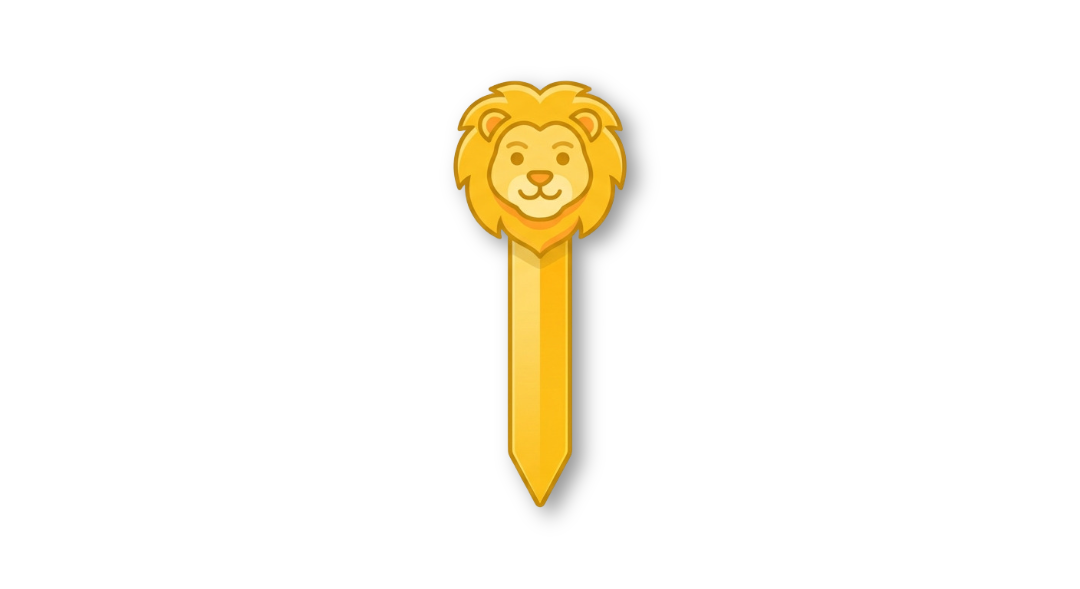
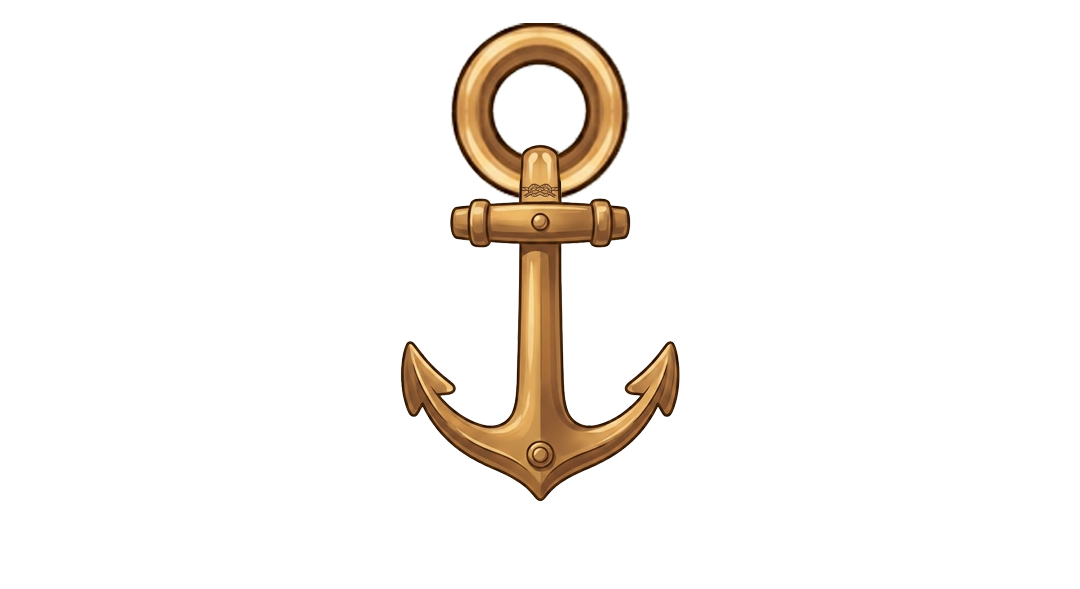
Refinacion de animacion de resultado, fix a modo hype, logica isDupla, retoque a asset de ancla puntero

Changed region(s): [[0.3667, 0.0306, 0.6417, 0.8862]]

diff --git a/src/app/components/results-animation/reveal-overlay.component.scss b/src/app/components/results-animation/reveal-overlay.component.scss
@@ -56,7 +56,7 @@ $ease-out: cubic-bezier(0.55, 0, 0.45, 1); // colapso suave
   inset: 0;
 }
 
-/* ---------- Texto delineado ---------- */
+/* ---------- Texto delineado (modo normal / no-hype) ---------- */
 .reveal-text {
   position: absolute;
   left: 50%;
@@ -68,27 +68,27 @@ $ease-out: cubic-bezier(0.55, 0, 0.45, 1); // colapso suave
   font-size: clamp(64px, 17vw, 230px);
   line-height: 0.9;
   letter-spacing: 0.02em;
-  color: #FFD700;
+  color: #ffffff;
   paint-order: stroke fill;
-  -webkit-text-stroke: clamp(6px, 1.2vw, 12px) #1A0500;
-  text-stroke: clamp(6px, 1.2vw, 12px) #1A0500;
-  filter: drop-shadow(0 0 12px #FF990044);
+  -webkit-text-stroke: clamp(4px, 0.8vw, 8px) #001a3a;
+  text-stroke: clamp(4px, 0.8vw, 8px) #001a3a;
+  filter: drop-shadow(0 0 12px #2299FF88);
 
   // estado inicial: fuera por la izquierda
   transform: translate(-50%, -50%) translateX(-82vw) translateY(var(--reveal-text-y)) scale(1);
   opacity: 0;
   transition:
-    transform var(--reveal-enter) $ease-in var(--reveal-text-delay),
+    transform var(--reveal-enter) cubic-bezier(0.25, 1, 0.5, 1) var(--reveal-text-delay),
     opacity calc(var(--reveal-enter) * 0.7) ease var(--reveal-text-delay);
 
   &.enter {
     transform: translate(-50%, -50%) translateX(0) translateY(var(--reveal-text-y)) scale(1);
     opacity: 1;
-    animation: neon-flicker 4s cubic-bezier(0.37, 0, 0.63, 1) infinite;
+    animation: neon-flicker-blue 4s cubic-bezier(0.37, 0, 0.63, 1) infinite;
     animation-delay: var(--reveal-enter);
   }
   &.collapse {
-    transform: translate(-50%, -50%) translateX(0) translateY(0) scale(var(--reveal-text-shrink));
+    transform: translate(-50%, -50%) translateX(var(--reveal-collapse-x, 0px)) translateY(var(--reveal-collapse-y, 0px)) scale(var(--reveal-text-shrink));
     opacity: 0.9;
     transition:
       transform var(--reveal-shrink) $ease-out,
@@ -96,7 +96,7 @@ $ease-out: cubic-bezier(0.55, 0, 0.45, 1); // colapso suave
   }
   &.gone {
     opacity: 0;
-    transform: translate(-50%, -50%) translateX(0) translateY(0) scale(var(--reveal-text-shrink));
+    transform: translate(-50%, -50%) translateX(var(--reveal-collapse-x, 0px)) translateY(var(--reveal-collapse-y, 0px)) scale(var(--reveal-text-shrink));
     transition:
       transform var(--reveal-shrink) $ease-out,
       opacity var(--reveal-clear) $ease-out;
@@ -177,10 +177,10 @@ $ease-out: cubic-bezier(0.55, 0, 0.45, 1); // colapso suave
     opacity: 1;
   }
 
-  // colapso: ambas convergen al centro exacto y se encogen
+  // colapso: ambas convergen al centro de la rueda y se encogen
   &.left.collapse,
   &.right.collapse {
-    transform: translate(-50%, -50%) translateX(0) scale(var(--reveal-img-shrink));
+    transform: translate(-50%, -50%) translateX(var(--reveal-collapse-x, 0px)) translateY(var(--reveal-collapse-y, 0px)) scale(var(--reveal-img-shrink));
     opacity: 1;
     transition:
       transform var(--reveal-shrink) $ease-out,
@@ -188,7 +188,7 @@ $ease-out: cubic-bezier(0.55, 0, 0.45, 1); // colapso suave
   }
   &.left.gone,
   &.right.gone {
-    transform: translate(-50%, -50%) translateX(0) scale(var(--reveal-img-shrink));
+    transform: translate(-50%, -50%) translateX(var(--reveal-collapse-x, 0px)) translateY(var(--reveal-collapse-y, 0px)) scale(var(--reveal-img-shrink));
     opacity: 0;
     transition:
       transform var(--reveal-shrink) $ease-out,

diff --git a/src/app/home/home.page.ts b/src/app/home/home.page.ts
@@ -360,11 +360,13 @@ export class HomePage implements OnInit, AfterViewInit, OnDestroy {
         .then(async () => {
           const label = cmd.resultLabel?.trim();
           if (label) {
+            const isDupla = String(cmd.outerPosition) === String(cmd.innerPosition);
             await this.reveal.play({
               leftImage:  ANIMAL_MAP[String(cmd.outerPosition)]?.image       ?? '',
               rightImage: ANIMAL_MAP[String(cmd.innerPosition)]?.innerImage  ?? '',
               text: label,
-              hype: true,
+              hype: isDupla,
+              collapseTarget: this.wheelContainer.getWheelCenterViewport() ?? undefined,
             });
           }
           this.orchestrator.notifySpinComplete();
@@ -886,11 +888,13 @@ export class HomePage implements OnInit, AfterViewInit, OnDestroy {
       // Animación de resultado antes de mostrar overlay estático
       const revealLabel = backendResult.resultLabel?.trim();
       if (revealLabel) {
+        const isDupla = String(result.outerPosition) === String(result.innerPosition);
         await this.reveal.play({
           leftImage:  ANIMAL_MAP[String(result.outerPosition)]?.image       ?? '',
           rightImage: ANIMAL_MAP[String(result.innerPosition)]?.innerImage  ?? '',
           text: revealLabel,
-          hype: true,
+          hype: isDupla,
+          collapseTarget: this.wheelContainer.getWheelCenterViewport() ?? undefined,
         });
       }
 

diff --git a/src/global.scss b/src/global.scss
@@ -51,6 +51,17 @@
   92%  { filter: drop-shadow(0 0 6px #FFB300)  drop-shadow(0 0 20px #FF880088) drop-shadow(0 0 45px #FF440044); }
   100% { filter: drop-shadow(0 0 8px #FFB300)  drop-shadow(0 0 26px #FF8800BB) drop-shadow(0 0 55px #FF440055); }
 }
+@keyframes neon-flicker-blue {
+  0%   { filter: drop-shadow(0 0 8px #2299FF)  drop-shadow(0 0 26px #0066FFBB) drop-shadow(0 0 55px #0033BB55); }
+  12%  { filter: drop-shadow(0 0 4px #1188EE)  drop-shadow(0 0 16px #0055DD77) drop-shadow(0 0 38px #002299AA); }
+  23%  { filter: drop-shadow(0 0 18px #44AAFF) drop-shadow(0 0 48px #2288FFCC) drop-shadow(0 0 90px #0055FF77); }
+  41%  { filter: drop-shadow(0 0 9px #2299FF)  drop-shadow(0 0 28px #0066FF99) drop-shadow(0 0 58px #0033BB55); }
+  58%  { filter: drop-shadow(0 0 3px #1188EE)  drop-shadow(0 0 14px #0055DD66) drop-shadow(0 0 32px #002299AA); }
+  67%  { filter: drop-shadow(0 0 22px #55BBFF) drop-shadow(0 0 60px #33AAFFDD) drop-shadow(0 0 110px #0066FF88); }
+  83%  { filter: drop-shadow(0 0 11px #2299FF) drop-shadow(0 0 32px #0066FFAA) drop-shadow(0 0 65px #0033BB66); }
+  92%  { filter: drop-shadow(0 0 6px #2299FF)  drop-shadow(0 0 20px #0066FF88) drop-shadow(0 0 45px #0033BB44); }
+  100% { filter: drop-shadow(0 0 8px #2299FF)  drop-shadow(0 0 26px #0066FFBB) drop-shadow(0 0 55px #0033BB55); }
+}
 @keyframes hype-slide {
   0%   { transform: translate(-50%, -50%) translateX(-95vw) scale(0.92); opacity: 0; }
   14%  { opacity: 1; }

diff --git a/src/app/components/wheel-container/wheel-container.component.ts b/src/app/components/wheel-container/wheel-container.component.ts
@@ -1,4 +1,4 @@
-import { Component, Input, Output, EventEmitter, ElementRef, ViewChild, OnChanges, SimpleChanges, OnInit, AfterViewInit, NgZone, ChangeDetectionStrategy, ChangeDetectorRef } from '@angular/core';
+import { Component, Input, ElementRef, ViewChild, OnChanges, SimpleChanges, OnInit, AfterViewInit, NgZone, ChangeDetectionStrategy, ChangeDetectorRef } from '@angular/core';
 import { CommonModule } from '@angular/common';
 import { Animal, WheelSpinResult, WheelItem } from '../../interfaces/wheel-general.interface';
 import { GameState } from '../../interfaces/game.enums';
@@ -470,6 +470,13 @@ export class WheelContainerComponent implements OnInit, AfterViewInit, OnChanges
         resolve();
       }, this.RESET_DURATION_MS + 100);
     });
+  }
+
+  public getWheelCenterViewport(): { x: number; y: number } | null {
+    const svgEl = this.outerWheel?.nativeElement?.ownerSVGElement;
+    if (!svgEl) return null;
+    const rect = svgEl.getBoundingClientRect();
+    return { x: rect.left + rect.width / 2, y: rect.top + rect.height / 2 };
   }
 
   public getRouletteNumber(index: number): string {

diff --git a/src/app/components/results-animation/reveal-overlay.component.ts b/src/app/components/results-animation/reveal-overlay.component.ts
@@ -200,6 +200,11 @@ export class RevealOverlayComponent implements OnDestroy {
     host.style.setProperty('--reveal-img-shrink', `${imgShrink}`);
     host.style.setProperty('--reveal-text-shrink', `${textShrink}`);
     host.style.setProperty('--reveal-text-y', `${textY}vh`);
+    const target = cfg.collapseTarget;
+    const offsetX = target ? target.x - window.innerWidth  / 2 : 0;
+    const offsetY = target ? target.y - window.innerHeight / 2 : 0;
+    host.style.setProperty('--reveal-collapse-x', `${offsetX}px`);
+    host.style.setProperty('--reveal-collapse-y', `${offsetY}px`);
   }
 
   /** Detecta el modo hype y, si aplica, construye las ráfagas de texto. */

diff --git a/src/theme/responsive-variables.scss b/src/theme/responsive-variables.scss
@@ -836,14 +836,14 @@
   :root {
     /* === WHEEL & GAME AREA === */
     --wheel-margin-top: 5%;
-    --wheel-right: -45vh;
+    --wheel-right: -50vh;
     --wheel-center-size: 40%;
     --wheel-border-size: 118vh;
     --wheel-diameter: 80vh;
     --wheel-border-transform-x: 0px;
     --wheel-border-transform-y: 0px;
-    --pointer-size: 95px;
-    --pointer-top: -20px;
+    --pointer-size: 210px;
+    --pointer-top: -15px;
 
     /* === ANIMAL DISPLAY === */
     --animal-image-size: 240px;

diff --git a/src/app/components/results-animation/reveal.service.ts b/src/app/components/results-animation/reveal.service.ts
@@ -54,6 +54,8 @@ export interface RevealConfig {
   waves?: number;
   /** fuerza la secuencia "hype" (ráfaga + parpadeos + aterrizaje final). */
   hype?: boolean;
+  /** Coordenadas viewport del punto de destino del colapso final (por defecto: centro de pantalla). */
+  collapseTarget?: { x: number; y: number };
 }
 
 @Injectable({ providedIn: 'root' })

diff --git a/docs/ADAPTACION/BLOQUE C/implementado/c3-retoque-animacion-resultado.md b/docs/ADAPTACION/BLOQUE C/implementado/c3-retoque-animacion-resultado.md
@@ -1,0 +1,96 @@
+# C3 — Retoque visual de la animación de resultado
+
+## Diagnóstico
+
+La animación ya tiene suficiente dinamismo: desplazamiento de texto para atrapar la mirada → texto estático que brilla como letrero. La fase dinámica no se toca. El problema está en la **fase estática (hold)**: se ve genérica porque la fuente no tiene personalidad y el efecto de brillo no transmite calidad.
+
+## Dirección
+
+- **Emoción:** celebración. Referencia: máquinas tragaperras.
+- **Qué se mejora:** solo la fase estática. La fuente y el tratamiento visual del texto en reposo.
+- **El overlay está bien.** No se toca el sonido.
+
+## Fuente
+
+Debe sentirse **cálida y expresiva** — no fría ni geométrica. Referencia de personalidad: letras de cartel festivo, display bold con algo de humanismo, trazos que no sean perfectamente mecánicos. Opciones a evaluar (Google Fonts, libre):
+
+| Fuente | Característica |
+|---|---|
+| **Lilita One** | Bold latino, trazo uniforme caliente |
+| **Boogaloo** | Informal festivo, ligero |
+| **Righteous** | Display cálido, algo retro |
+| **Titan One** | Muy bold, impacto, cercano al cartel |
+| **Fredoka One** | Redondeado, amigable |
+
+Elegir la que mejor lea como **grito** en mayúsculas y que tenga personalidad cuando está estática en pantalla.
+
+## Dos modos de texto
+
+La animación distingue dos casos según el resultado:
+
+| Modo | Condición | Comportamiento |
+|---|---|---|
+| **Hype** (morocha/dupla) | `outerPosition === innerPosition` | Ráfaga horizontal + parpadeos verticales + texto final centrado. Texto dorado (`#FFD700`) con brillo ámbar. |
+| **Normal** (resultado simple) | `outerPosition !== innerPosition` | Texto entra desde la izquierda, se detiene en el centro. Texto **blanco** con brillo **azul**. Sin ráfagas. |
+
+La condición se evalúa en `home.page.ts` en los dos puntos donde se llama `reveal.play()`:
+```ts
+const isDupla = String(cmd.outerPosition) === String(cmd.innerPosition);
+await this.reveal.play({ ..., hype: isDupla });
+```
+
+## Efecto de brillo
+
+### Modo hype — brillo ámbar/dorado
+`@keyframes neon-flicker` en `src/global.scss` — 9 keyframes irregulares en tono ámbar/dorado. Easing `cubic-bezier(0.37, 0, 0.63, 1)`, duración 4 s.
+
+### Modo normal — brillo azul
+`@keyframes neon-flicker-blue` en `src/global.scss` — misma estructura que `neon-flicker` pero en tono azul eléctrico (`#2299FF` / `#0066FF`). Aplicado a `.reveal-text` en el componente.
+
+Características comunes:
+- Borde/outline grueso de contraste para leer a distancia en TV.
+- `paint-order: stroke fill` — el outline queda detrás del relleno.
+- Pulso orgánico con easing no lineal y variación de intensidad entre keyframes.
+
+## Colapso al centro de la rueda
+
+Al terminar la animación, todos los elementos (imágenes y texto) se desplazan al **centro exacto de la rueda**, independientemente del breakpoint.
+
+**Implementación:**
+- `WheelContainerComponent.getWheelCenterViewport()` devuelve las coordenadas viewport del centro del SVG.
+- `RevealConfig.collapseTarget?: { x, y }` recibe esas coordenadas.
+- `applyVars()` en el overlay calcula el offset respecto al centro de pantalla y lo inyecta como `--reveal-collapse-x` / `--reveal-collapse-y`.
+- Los estados `.collapse` y `.gone` de imágenes y texto aplican ese offset en su `transform`.
+- Fallback: `0px` / `0px` (centro de pantalla) si el elemento no está disponible.
+
+## Lo que NO cambia
+
+- La secuencia de entrada (desplazamiento / ráfagas).
+- El overlay y su opacidad.
+- El sonido.
+- Los timings de `REVEAL_DEFAULTS`.
+
+## Criterios de aceptación
+
+- La fuente en fase estática tiene personalidad visible — no es una sans-serif genérica.
+- Modo hype: brillo irradia calidez (tono ámbar/dorado).
+- Modo normal: texto blanco con brillo azul, sin ráfagas, entrada suave sin saltos.
+- Los elementos colapsan hacia el centro de la rueda en todos los breakpoints.
+- El texto es legible a distancia en TV con el outline.
+- No hay regresiones en la fase dinámica de entrada.
+
+## Archivos modificados
+
+| Archivo | Cambios |
+|---|---|
+| `src/index.html` | `<link>` preconnect + stylesheet de Titan One |
+| `src/global.scss` | `@keyframes neon-flicker` (ámbar) + `@keyframes neon-flicker-blue` (azul) |
+| `reveal-overlay.component.scss` | Fuente `Titan One`; modo hype: dorado `#FFD700`; modo normal: blanco `#ffffff` con brillo azul y easing sin overshoot `cubic-bezier(0.25, 1, 0.5, 1)`; colapso con `--reveal-collapse-x/y` |
+| `reveal-overlay.component.ts` | `applyVars` inyecta `--reveal-collapse-x/y` calculados desde `collapseTarget` |
+| `reveal.service.ts` | `RevealConfig` añade `collapseTarget?: { x, y }` |
+| `wheel-container.component.ts` | Método público `getWheelCenterViewport()` |
+| `home.page.ts` | Condición `isDupla` para `hype`; pasa `collapseTarget` en ambos puntos de llamada |
+
+## Estado
+
+Implementado

diff --git a/docs/ADAPTACION/BLOQUE C/c7-colores-animales-resultados-por-tema.md b/docs/ADAPTACION/BLOQUE C/c7-colores-animales-resultados-por-tema.md
@@ -1,0 +1,97 @@
+# C7 — Colores de los círculos de animales según tema activo de la rueda
+
+## Problema
+
+Los círculos que encuadran las imágenes de animales en la animación de resultados (`char-ring`) tienen colores hardcodeados en el SCSS:
+
+- `.ring-left` → fondo `#128DFC`, glow `#1A0B79`
+- `.ring-right` → fondo `#FFE28F`, glow `#FFE28F`
+
+El proyecto ya tiene un sistema de paletas por tema (`Clasica`, `Caribe`, `Selva`) definido en `wheel-palettes.ts`, con colores distintos para rueda externa e interna. La animación de resultado los ignora completamente: los colores son siempre los mismos independientemente del tema activo.
+
+## Requerimiento
+
+- El **animal izquierdo** (entra desde la izquierda) corresponde a la **rueda externa** y debe mostrar el fondo y glow con el color primario del tema activo de la rueda externa.
+- El **animal derecho** (entra desde la derecha) corresponde a la **rueda interna** y debe mostrar el fondo y glow con el color primario del tema activo de la rueda interna.
+- El cambio aplica tanto al `background` como al `box-shadow` (glow) de cada `char-ring`.
+
+## Fuente de verdad
+
+`src/app/components/wheel-container/wheel-palettes.ts`
+
+- `ACTIVE_PALETTE` selecciona la paleta activa.
+- Cada paleta expone `outerWheelColors` e `innerWheelColors`.
+- El color representativo de cada rueda es el `color` del primer stop (`offset: '60%'`) del primer gradiente.
+
+## Implementación sugerida
+
+### 1. Extender `RevealConfig` — `reveal.service.ts`
+
+Añadir dos campos opcionales:
+
+```ts
+leftThemeColor?: string;   // color primario rueda externa
+rightThemeColor?: string;  // color primario rueda interna
+```
+
+### 2. Pasar los colores al llamar a `play()` — `home.page.ts`
+
+```ts
+import { WHEEL_PALETTES, ACTIVE_PALETTE } from '...wheel-palettes';
+
+const palette = WHEEL_PALETTES[ACTIVE_PALETTE];
+this.reveal.play({
+  leftImage: '...',
+  rightImage: '...',
+  text: 'DUPLA',
+  leftThemeColor:  palette.outerWheelColors[0].stops[0].color,
+  rightThemeColor: palette.innerWheelColors[0].stops[0].color,
+});
+```
+
+### 3. Inyectar como CSS custom properties — `reveal-overlay.component.ts`
+
+En `applyVars()`:
+
+```ts
+host.style.setProperty('--ring-left-color',  cfg.leftThemeColor  ?? '#128DFC');
+host.style.setProperty('--ring-right-color', cfg.rightThemeColor ?? '#FFE28F');
+```
+
+### 4. Usar las variables en SCSS — `reveal-overlay.component.scss`
+
+Reemplazar los colores hardcoded en `.ring-left` y `.ring-right`:
+
+```scss
+&.ring-left {
+  background: var(--ring-left-color);
+  box-shadow:
+    0 0 0 3px oklch(0.98 0.01 250 / 0.55),
+    0 0 28px 4px var(--ring-left-color),
+    0 10px 30px oklch(0 0 0 / 0.45);
+}
+&.ring-right {
+  background: var(--ring-right-color);
+  box-shadow:
+    0 0 0 3px oklch(0.98 0.01 250 / 0.55),
+    0 0 28px 4px var(--ring-right-color),
+    0 10px 30px oklch(0 0 0 / 0.45);
+}
+```
+
+## Lo que NO cambia
+
+- La lógica de animación (timings, fases, hype).
+- La estructura del `char-ring` y `char-fill`.
+- Los colores del texto (`reveal-text`, `hype-word`, `hype-final`).
+
+## Criterios de aceptación
+
+- Con paleta `Clasica` activa: animal izquierdo muestra tono azul `#2097FC`, animal derecho muestra tono dorado `#FFD890`.
+- Con paleta `Selva` activa: animal derecho muestra tono verde `#1EC468`.
+- Si `leftThemeColor` / `rightThemeColor` no se pasan, los colores por defecto son los actuales (sin regresión).
+- No hay regresiones en la animación de entrada ni salida.
+
+## Estado
+
+Pendiente de implementación.
